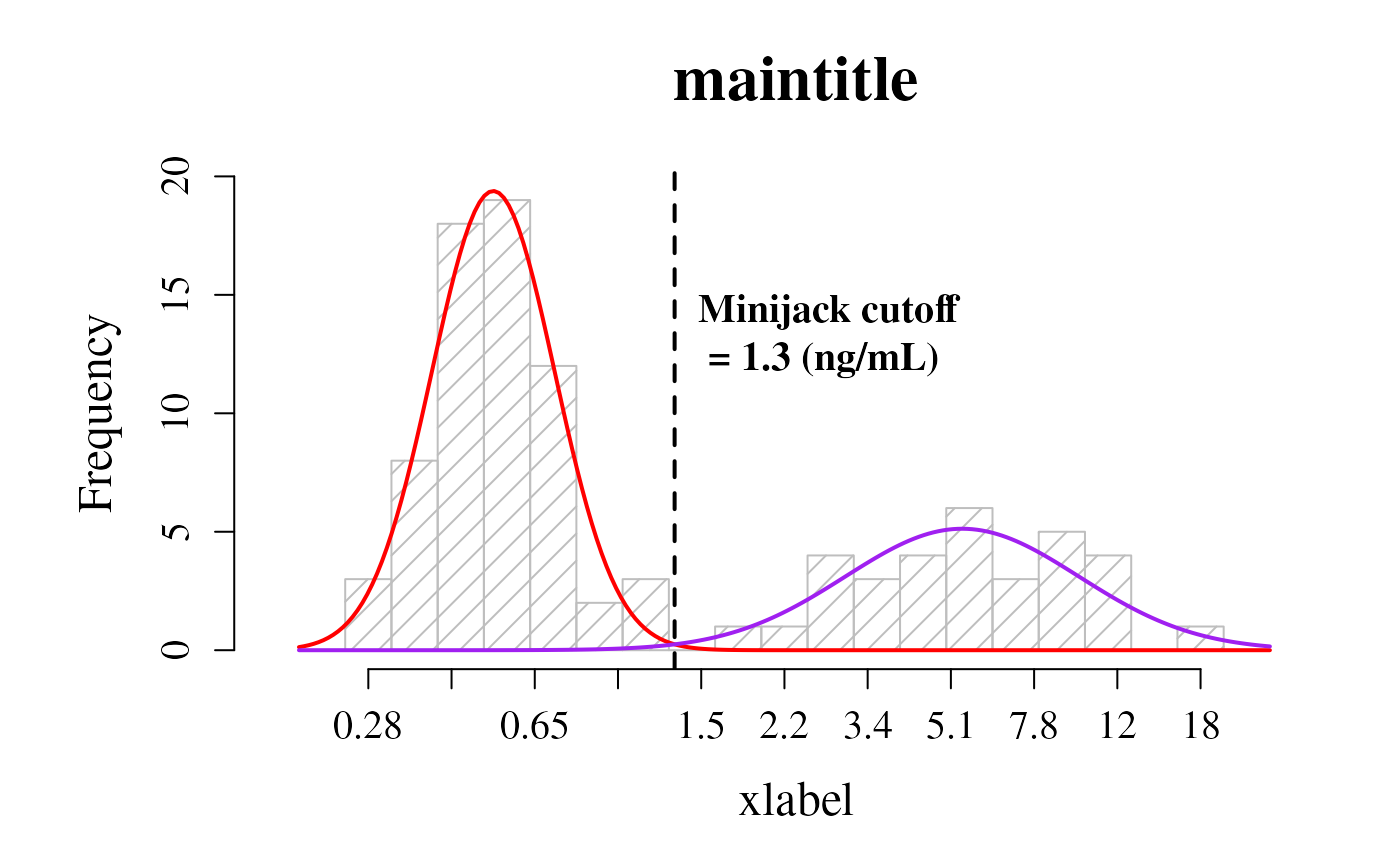
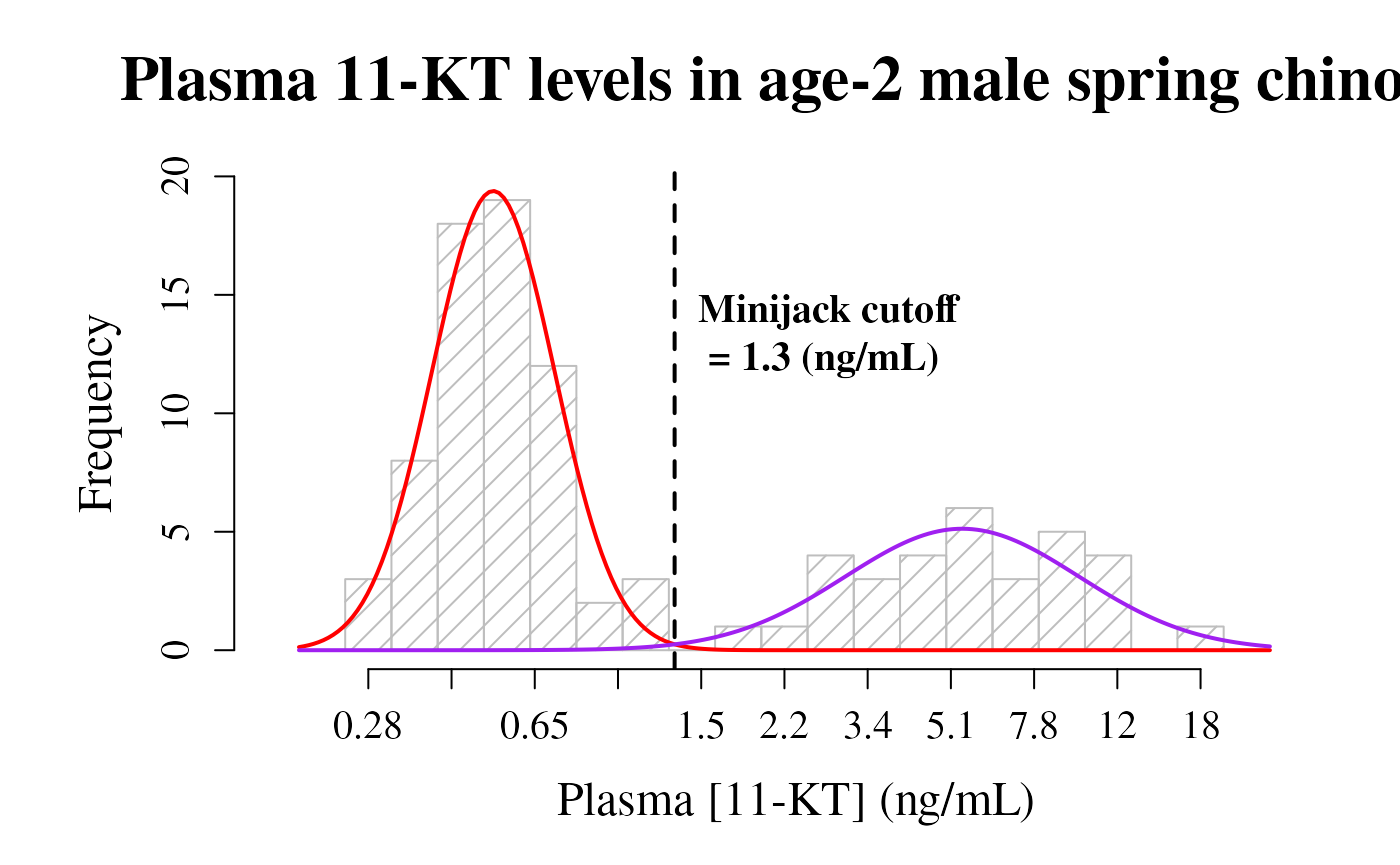
Deploying to gh-pages from @ lea-medeiros/cutoffvalue@02ca2c3b2e2c98745ec870008bc0be734a9f4fca 🚀

Changed region(s): [[0.0921, 0.0624, 1.0, 0.1249], [0.3993, 0.9052, 0.7371, 0.9676]]

diff --git a/reference/cutoffPlot.html b/reference/cutoffPlot.html
@@ -56,7 +56,7 @@
     <div id="ref-usage">
     <div class="sourceCode"><pre class="sourceCode r"><code><span><span class="fu">cutoffplot</span><span class="op">(</span></span>
 <span>  <span class="va">rawdata</span>,</span>
-<span>  maintitle <span class="op">=</span> <span class="st">"Plasma 11-KT levels in age-2 male spring chinook"</span>,</span>
+<span>  title <span class="op">=</span> <span class="st">"Plasma 11-KT levels in age-2 male spring chinook"</span>,</span>
 <span>  xlab <span class="op">=</span> <span class="st">"Plasma [11-KT] (ng/mL)"</span>,</span>
 <span>  cutofflab <span class="op">=</span> <span class="st">"Minijack cutoff"</span>,</span>
 <span>  cutoffunits <span class="op">=</span> <span class="st">"ng/mL"</span>,</span>
@@ -81,16 +81,16 @@
 column header</p></dd>
 
 
-<dt id="arg-maintitle">maintitle<a class="anchor" aria-label="anchor" href="#arg-maintitle"></a></dt>
+<dt id="arg-title">title<a class="anchor" aria-label="anchor" href="#arg-title"></a></dt>
 <dd><p>Title for the graph, default is blank</p></dd>
+
+
+<dt id="arg-xlab">xlab<a class="anchor" aria-label="anchor" href="#arg-xlab"></a></dt>
+<dd><p>Label for the x-axis, default is "Plasma 11-KT (ng/mL)"</p></dd>
 
 
 <dt id="arg-cutoffunits">cutoffunits<a class="anchor" aria-label="anchor" href="#arg-cutoffunits"></a></dt>
 <dd><p>Label for the units, default is "ng/mL"</p></dd>
-
-
-<dt id="arg-xlabel">xlabel<a class="anchor" aria-label="anchor" href="#arg-xlabel"></a></dt>
-<dd><p>Label for the x-axis, default is "Plasma 11-KT (ng/mL)"</p></dd>
 
 
 <dt id="arg-cutofflabel">cutofflabel<a class="anchor" aria-label="anchor" href="#arg-cutofflabel"></a></dt>
